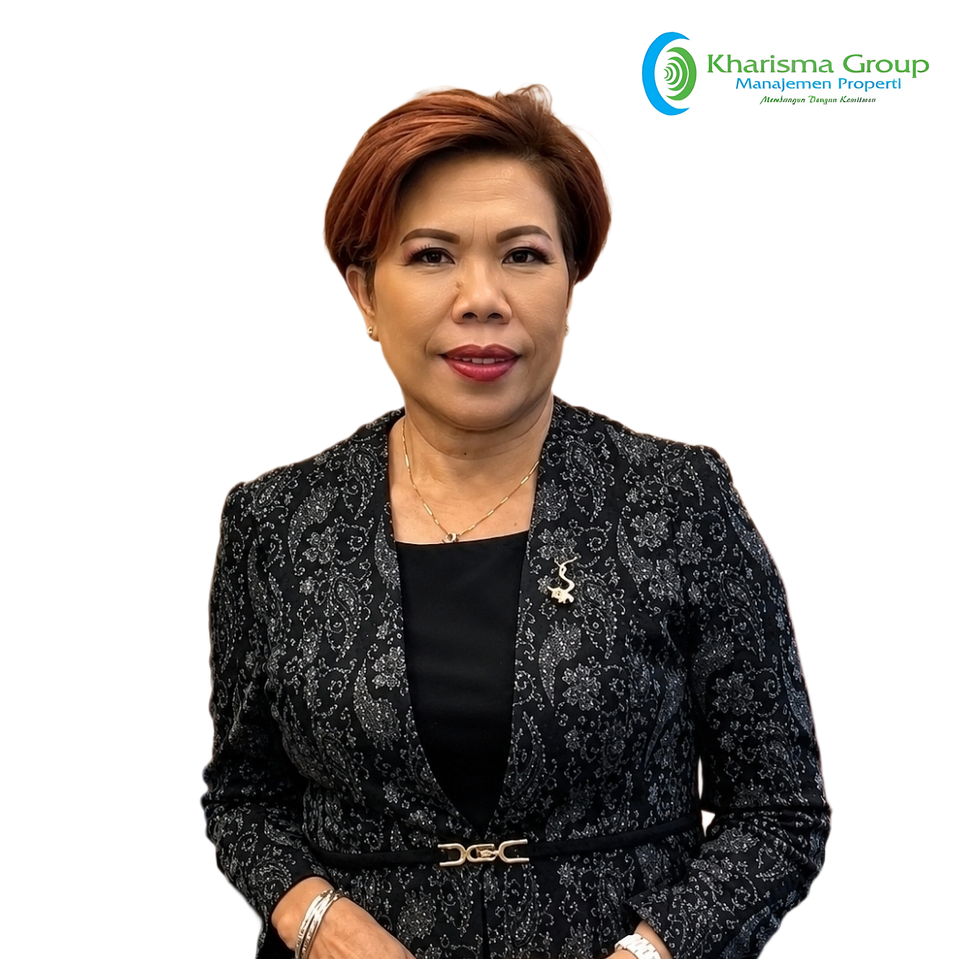
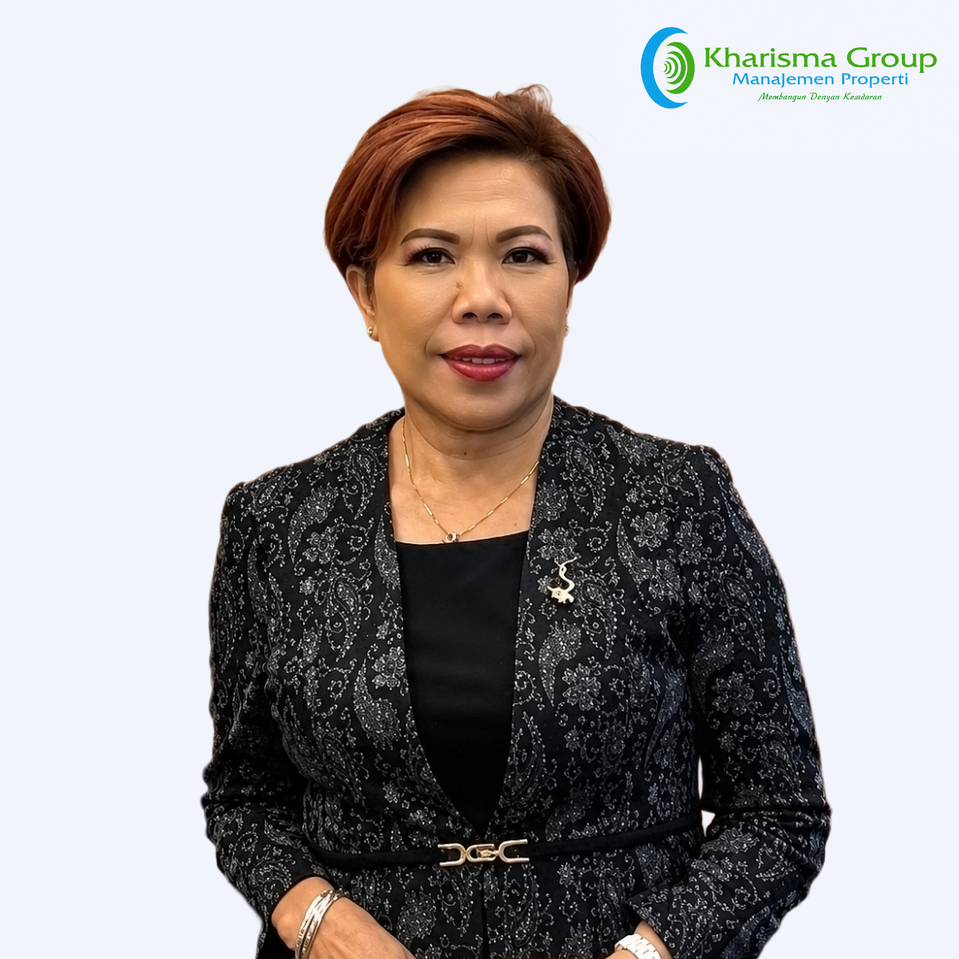
add congrats wall pak morizio

Changed region(s): [[0.6653, 0.0302, 0.9677, 0.121]]

diff --git a/src/components/Testimonial.js b/src/components/Testimonial.js
@@ -80,6 +80,10 @@ const testimonialKeys = [
   {
     key: 'item19',
     image: '/images/home-congrats-dianti.jpg',
+  },
+  {
+    key: 'item20',
+    image: '/images/home-congrats-morizio.png',
   }
 ];
 
